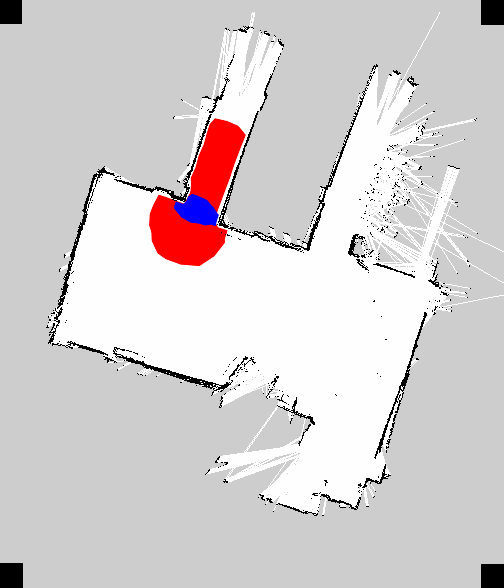
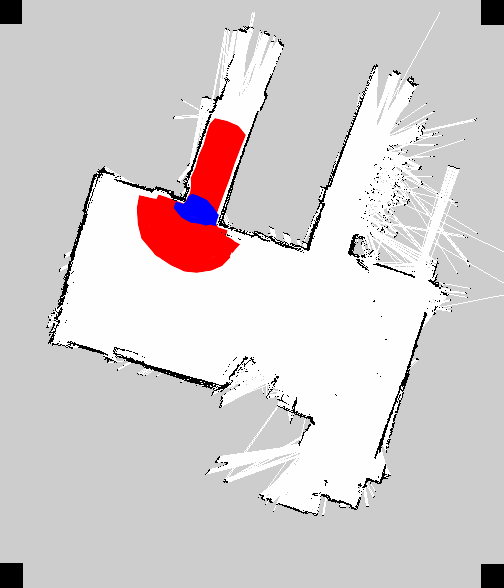
yield in centre sportif scenario corrected

Changed region(s): [[0.2679, 0.3367, 0.4762, 0.4898]]

diff --git a/upo_navigation_macro_actions/src/Upo_navigation_macro_actions.cpp b/upo_navigation_macro_actions/src/Upo_navigation_macro_actions.cpp
@@ -1866,7 +1866,7 @@ void Upo_navigation_macro_actions::peopleCallback(const upo_msgs::PersonPoseArra
 
 				++people_counter_;
 				
-				if(ok && people_counter_ > 8) {
+				if(ok && people_counter_ > 10) {
 					people_counter_--;
 					inside = true;
 					//printf("PERSON inside supernarrow zone!!!\n");
@@ -1875,7 +1875,12 @@ void Upo_navigation_macro_actions::peopleCallback(const upo_msgs::PersonPoseArra
 		}
 		if(!at_least_one) {
 			--people_counter_;
+			if(people_counter_ < 0)
+				people_counter_ = 0;
 		}
+
+		//printf("Counter: %i, inside: %i\n", people_counter_, inside);
+
 	} else {
 		people_counter_ = 0;
 	}
